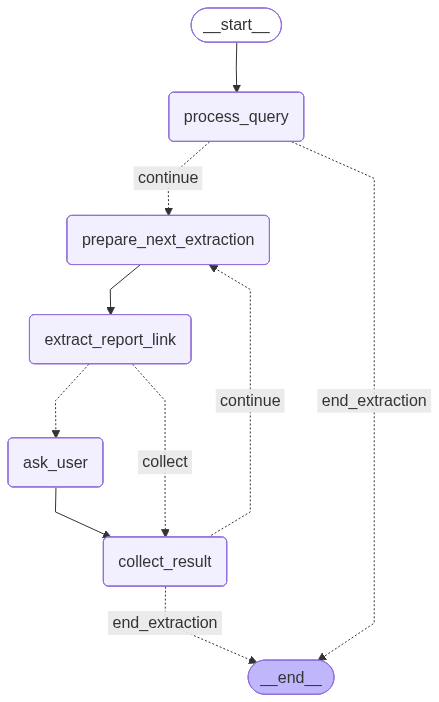
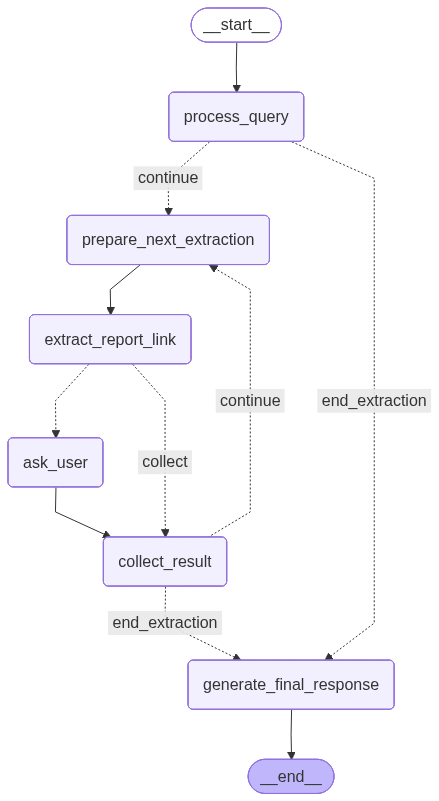
tests, xử lý edge cases yêu cầu người dùng, thêm response node

diff --git a/nodes/extract_link.py b/nodes/extract_link.py
@@ -1,4 +1,4 @@
-from playwright.sync_api import sync_playwright
+from playwright.sync_api import sync_playwright, TimeoutError as PlaywrightTimeoutError
 from state import StockReportState
 import regex as re
 
@@ -8,7 +8,7 @@ def prepare_next_extraction_node(state: StockReportState) -> StockReportState:
     pending = state["pending_requests"]
     if not pending:
         return {**state, "error_message": "Không có yêu cầu nào đang chờ."}
-    next_request = pending.pop(0) # Lấy và xóa yêu cầu đầu tiên
+    next_request = pending.pop(0) # Lấy yêu cầu đầu tiên
     print(f"Đang xử lý yêu cầu: {next_request.request_id} - {next_request.stock_code} {next_request.period} {next_request.quarter}/{next_request.year}")
 
     return {
@@ -19,7 +19,8 @@ def prepare_next_extraction_node(state: StockReportState) -> StockReportState:
         "year": next_request.year,
         "period": next_request.period,
         "quarter": next_request.quarter,
-        # Reset các trường kết quả của lần lặp trước
+        "consolidation_status": next_request.consolidation_status,
+        # Reset
         "report_link": None,
         "error_message": None,
         "clarification_prompt": None,
@@ -32,6 +33,8 @@ def extract_report_link_node(state: StockReportState) -> StockReportState:
     # Khởi tạo
     stock_code = state["stock_code"]
     year = state["year"]
+    period = state["period"]
+    user_consol_status = state.get("consolidation_status")
     output_state = { "report_link": None, "error_message": None, "clarification_prompt": None, "notification": None }
     try:
         with sync_playwright() as p:
@@ -40,16 +43,17 @@ def extract_report_link_node(state: StockReportState) -> StockReportState:
             page = browser.new_page()
             url = f"https://finance.vietstock.vn/{stock_code.upper()}/tai-tai-lieu.htm?doctype=1"
             page.goto(url, wait_until="domcontentloaded", timeout=30000)
-            # Chọn năm
-            year_selector = 'select.dropdown-year'
-            page.wait_for_selector(year_selector, timeout=30000) 
-            page.select_option(year_selector, str(year))
-            page.wait_for_function("""
-                        (year) => {
-                            const firstReport = document.querySelector("div.p-t-xs p.i-b-d a");
-                            return firstReport && firstReport.innerText.includes(year);
-                        }
-                    """, arg=str(year), timeout=60000)
+            if period != "Mới nhất" and year:
+                # Chọn năm
+                year_selector = 'select.dropdown-year'
+                page.wait_for_selector(year_selector, timeout=30000) 
+                page.select_option(year_selector, str(year))
+                page.wait_for_function("""
+                            (year) => {
+                                const firstReport = document.querySelector("div.p-t-xs p.i-b-d a");
+                                return firstReport && firstReport.innerText.includes(year);
+                            }
+                        """, arg=str(year), timeout=60000)
             reports_data = page.query_selector_all("div.p-t-xs p.i-b-d")
             # Lấy tên và link của tất cả pdf báo cáo trong năm
             scraped_reports = []
@@ -67,9 +71,35 @@ def extract_report_link_node(state: StockReportState) -> StockReportState:
             if not scraped_reports:
                 output_state["error_message"] = f"Không tìm thấy báo cáo nào cho mã {stock_code} năm {year}."
                 return {**state, **output_state}
+    except PlaywrightTimeoutError:
+        output_state["error_message"] = f"Không tìm thấy thông tin cho mã chứng khoán '{stock_code}'. Vui lòng kiểm tra lại mã."
+        return {**state, **output_state}
     except Exception as e:
         output_state["error_message"] = f"Lỗi khi scraping web: {str(e)}"
         return {**state, **output_state}
+    
+    if period == "Mới nhất":
+        if not scraped_reports:
+            output_state["error_message"] = f"Không tìm thấy báo cáo nào cho mã {stock_code}."
+            return {**state, **output_state}
+            
+        # Lọc theo Hợp nhất/Công ty mẹ nếu có yêu cầu
+        if user_consol_status:
+            for report in scraped_reports:
+                if user_consol_status.lower() in report["title"].lower():
+                    output_state["report_link"] = report["link"]
+                    output_state["notification"] = f"Đã tìm thấy báo cáo mới nhất theo yêu cầu: '{report['title']}'."
+                    return {**state, **output_state}
+
+            output_state["error_message"] = f"Không tìm thấy báo cáo '{user_consol_status}' mới nhất cho mã {stock_code}."
+            return {**state, **output_state}
+        else:
+            # Nếu không yêu cầu, lấy cái đầu tiên (mới nhất)
+            selected_report = scraped_reports[0]
+            output_state["report_link"] = selected_report["link"]
+            output_state["notification"] = f"Đã tìm thấy báo cáo mới nhất: '{selected_report['title']}'. (Mặc định lấy báo cáo đầu tiên trong danh sách)."
+            return {**state, **output_state}
+
     available_reports = {
         "Cả năm": {"Hợp nhất": [], "Công ty mẹ": []},
         "6 tháng": {"Hợp nhất": [], "Công ty mẹ": []},
@@ -93,18 +123,16 @@ def extract_report_link_node(state: StockReportState) -> StockReportState:
                     available_reports["Quý"][q][consol_status].append(report)
                     break
 
-    user_period = state.get("period")
-    user_consol_status = state.get("consolidation_status")
     user_quarter = state.get("quarter")
 
     # Trường hợp 1: Người dùng đã cung cấp đủ thông tin
-    if user_period and user_consol_status:
+    if period and user_consol_status:
         found_reports = []
-        if user_period == "Quý" and user_quarter:
+        if period == "Quý" and user_quarter:
             found_reports = available_reports["Quý"][user_quarter][user_consol_status]
-        elif user_period == "6 tháng":
+        elif period == "6 tháng":
             found_reports = available_reports["6 tháng"][user_consol_status]
-        elif user_period == "Cả năm":
+        elif period == "Cả năm":
             found_reports = available_reports["Cả năm"][user_consol_status]
 
         if found_reports:
@@ -113,7 +141,7 @@ def extract_report_link_node(state: StockReportState) -> StockReportState:
             output_state["notification"] = f"Đã tìm thấy báo cáo '{selected_report['title']}' theo yêu cầu."
             return {**state, **output_state}
         else:
-            req_str = f"{user_period} Quý {user_quarter}" if user_period == "Quý" else user_period
+            req_str = f"{period} Quý {user_quarter}" if period == "Quý" else period
             output_state["error_message"] = f"Không tìm thấy báo cáo '{req_str} - {user_consol_status}' bạn yêu cầu."
             return {**state, **output_state}
 
@@ -122,7 +150,7 @@ def extract_report_link_node(state: StockReportState) -> StockReportState:
     requested_quarter_failed = False 
 
     # Tìm chính xác quý người dùng yêu cầu (nếu họ yêu cầu quý)
-    if user_period == "Quý" and user_quarter:
+    if period == "Quý" and user_quarter:
         for cons_stat in ["Hợp nhất", "Công ty mẹ"]:
             if available_reports["Quý"][user_quarter][cons_stat]:
                 report_item = available_reports["Quý"][user_quarter][cons_stat][0]
@@ -146,11 +174,11 @@ def extract_report_link_node(state: StockReportState) -> StockReportState:
     if not possible_choices:
         if not requested_quarter_failed: 
             for cons_stat in ["Hợp nhất", "Công ty mẹ"]:
-                if user_period != "Cả năm" and available_reports["6 tháng"][cons_stat]:
+                if period != "Cả năm" and available_reports["6 tháng"][cons_stat]:
                     report_item = available_reports["6 tháng"][cons_stat][0]
                     possible_choices.append({"period": "6 tháng", "consolidation_status": cons_stat, **report_item})
 
-                if user_period != "6 tháng" and available_reports["Cả năm"][cons_stat]:
+                if period != "6 tháng" and available_reports["Cả năm"][cons_stat]:
                     report_item = available_reports["Cả năm"][cons_stat][0]
                     possible_choices.append({"period": "Cả năm", "consolidation_status": cons_stat, **report_item})
 

diff --git a/nodes/process_query.py b/nodes/process_query.py
@@ -3,6 +3,7 @@ from state import StockReportState
 from tools import get_current_time
 from langchain_google_genai import ChatGoogleGenerativeAI
 from langchain_core.prompts import ChatPromptTemplate, FewShotChatMessagePromptTemplate
+from datetime import datetime
 
 def process_query_node(state: StockReportState) -> StockReportState:
     print("Bắt đầu Node: Xử lý Query")
@@ -49,6 +50,20 @@ def process_query_node(state: StockReportState) -> StockReportState:
                 ],
                 comparison_context="Phân tích sự tăng trưởng của HPG qua Quý 1, 2, và 3 của năm 2025."
             )
+        },
+        {
+            "input": "lấy cho tôi báo cáo tài chính hợp nhất quý 2 2024 của FPT",
+            "output": AnalysisIntent(
+                requests=[ReportRequest(stock_code="FPT", year=2024, period="Quý", quarter=2, consolidation_status="Hợp nhất")],
+                comparison_context="Phân tích báo cáo tài chính hợp nhất Quý 2 2024 của FPT."
+            )
+        },
+        {
+            "input": "tìm báo cáo mới nhất của VNM",
+            "output": AnalysisIntent(
+                requests=[ReportRequest(stock_code="VNM", period="Mới nhất")],
+                comparison_context="Tìm báo cáo tài chính mới nhất của VNM."
+            )
         }
     ]
 
@@ -73,15 +88,57 @@ def process_query_node(state: StockReportState) -> StockReportState:
 
     try:
         analysis_intent = chain.invoke({"query": query})
+        # Loại bỏ các báo cáo tương lai
+        now = datetime.now()
+        valid_requests = []
+        future_requests_messages = []
+
+        if not analysis_intent.requests:
+            return {
+                **state,
+                "pending_requests": [],
+                "comparison_context": analysis_intent.comparison_context,
+                "notification": "Tôi nhận thấy yêu cầu của bạn dành cho một báo cáo trong tương lai và chưa được phát hành. Do đó, không có tác vụ tìm kiếm nào được thực hiện.",
+                "collected_links": {}
+            }
+
+        for req in analysis_intent.requests:
+            if req.year is not None:
+                end_month = 12
+                if req.period == "Quý" and req.quarter:
+                    end_month = req.quarter * 3
+                elif req.period == "6 tháng":
+                    end_month = 6
+                
+                report_is_in_future = False
+                if req.year > now.year:
+                    report_is_in_future = True
+                elif req.year == now.year and end_month >= now.month:
+                     report_is_in_future = True
+
+                if report_is_in_future:
+                    req_str = f"{req.stock_code} {req.period} {req.quarter}/{req.year}" if req.period == "Quý" else f"{req.stock_code} {req.period}/{req.year}"
+                    future_requests_messages.append(f"- {req_str}")
+                    continue
+            
+            valid_requests.append(req)
+        
+        notification = None
+        if future_requests_messages:
+            notification = "Một số báo cáo bạn yêu cầu chưa đến kỳ phát hành và đã được bỏ qua:\n" + "\n".join(future_requests_messages)
+
         return {
             **state,
-            "pending_requests": analysis_intent.requests,
+            "pending_requests": valid_requests,
             "comparison_context": analysis_intent.comparison_context,
+            "notification": notification,
             "collected_links": {}
         }
     except Exception as e:
         print(f"Lỗi khi xử lý query: {e}")
         return {
             **state,
-            "error_message": "Lỗi xử lý query."
+            "pending_requests": [],
+            "collected_links": {},
+            "error_message": f"Lỗi nghiêm trọng khi xử lý query: {e}"
         }

diff --git a/agent.py b/agent.py
@@ -11,6 +11,7 @@ from nodes import (
     should_continue_extraction,
     collect_result_node,
     ask_user_for_clarification_node,
+    generate_final_response_node
 )
 
 load_dotenv()
@@ -24,6 +25,7 @@ graph_builder.add_node("prepare_next_extraction", prepare_next_extraction_node)
 graph_builder.add_node("extract_report_link", extract_report_link_node)
 graph_builder.add_node("ask_user", ask_user_for_clarification_node)
 graph_builder.add_node("collect_result", collect_result_node)
+graph_builder.add_node("generate_final_response", generate_final_response_node)
 
 # Edges
 
@@ -31,13 +33,14 @@ graph_builder.add_edge(START, "process_query")
 graph_builder.add_conditional_edges(
     "process_query",
     should_continue_extraction,
-    {"continue": "prepare_next_extraction", "end_extraction": END}
+    {"continue": "prepare_next_extraction", "end_extraction": "generate_final_response"}
 )
 graph_builder.add_conditional_edges(
     "collect_result",
     should_continue_extraction,
-    {"continue": "prepare_next_extraction", "end_extraction": END}
+    {"continue": "prepare_next_extraction", "end_extraction": "generate_final_response"}
 )
+graph_builder.add_edge("generate_final_response", END)
 graph_builder.add_edge("prepare_next_extraction", "extract_report_link")
 graph_builder.add_edge("ask_user", "collect_result")
 graph_builder.add_conditional_edges(
@@ -48,7 +51,7 @@ graph_builder.add_conditional_edges(
 
 agent = graph_builder.compile()
 
-query = "so sánh fpt quý 2 và quý 3 năm 2024"
+query = "tìm báo cáo tài chính quý 2 2024 của FPT"
 final_state = agent.invoke({"query": query})
 
 print("AGENT ĐÃ HOÀN TẤT")

diff --git a/nodes/generate_response.py b/nodes/generate_response.py
@@ -1,0 +1,35 @@
+from state import StockReportState
+
+def generate_final_response_node(state: StockReportState) -> StockReportState:
+    """Tạo câu trả lời cuối cùng dựa trên kết quả thu thập được."""
+    print("Bắt đầu Node: Tạo Phản hồi Cuối cùng")
+    
+    collected = state.get("collected_links", {})
+    context = state.get("comparison_context", "")
+    notification = state.get("notification")
+    
+    if not collected and notification:
+        final_response = (
+            f"Mục tiêu: {context}\n\n"
+            f"Trạng thái:\n{notification}"
+        )
+        return {**state, "final_response": final_response}
+        
+    if not collected and not notification:
+        return {**state, "final_response": "Rất tiếc, tôi không thể xử lý yêu cầu của bạn. Vui lòng thử lại với một truy vấn khác."}
+
+    response_parts = []
+    response_parts.append(f"Mục tiêu phân tích: {context}")
+
+    if notification:
+        response_parts.append(f"\nThông báo:\n{notification}")
+
+    if collected:
+        response_parts.append("\nKết quả tìm kiếm:")
+        for req_id, result in collected.items():
+            if "LỖI" in result:
+                response_parts.append(f"Yêu cầu {req_id}: Thất bại. {result}")
+            else:
+                response_parts.append(f"Yêu cầu {req_id}: Thành công. Link: {result}")
+    
+    return {**state, "final_response": "\n".join(response_parts)}

diff --git a/pydantic_models.py b/pydantic_models.py
@@ -6,9 +6,10 @@ class ReportRequest(BaseModel):
     """Yêu cầu tìm một báo cáo tài chính cụ thể."""
     request_id: str = Field(description="Mã định danh duy nhất cho yêu cầu này, ví dụ 'req_1', 'req_2'.",default_factory=lambda: f"req_{uuid.uuid4().hex[:4]}")
     stock_code: str = Field(description="Mã chứng khoán, ví dụ: 'FPT', 'VCB'.")
-    year: int = Field(description="Năm của báo cáo.")
-    period: Literal["Quý", "6 tháng", "Cả năm"] = Field(description="Kỳ báo cáo.")
-    quarter: Optional[int] = Field(description="Quý của báo cáo (chỉ khi period là 'Quý').")
+    year: Optional[int] = Field(default=None, description="Năm của báo cáo.")
+    period: Optional[Literal["Quý", "6 tháng", "Cả năm", "Mới nhất"]] = Field(default=None, description="Kỳ báo cáo.")
+    quarter: Optional[int] = Field(default=None, description="Quý của báo cáo (chỉ khi period là 'Quý').")
+    consolidation_status: Optional[Literal["Hợp nhất", "Công ty mẹ"]] = Field(default=None, description="Loại báo cáo: Hợp nhất hay của Công ty mẹ.")
 
 class AnalysisIntent(BaseModel):
     """Ý định phân tích tổng thể của người dùng, bao gồm tất cả các báo cáo cần thiết."""

diff --git a/state.py b/state.py
@@ -10,7 +10,7 @@ class StockReportState(TypedDict):
     current_request_id: Optional[str]
     stock_code: Optional[str]
     year: Optional[int]
-    period: Optional[Literal["Quý", "6 tháng", "Cả năm"]]
+    period: Optional[Literal["Quý", "6 tháng", "Cả năm", "Mới nhất"]]
     quarter: Optional[int]
     consolidation_status: Optional[Literal["Hợp nhất", "Công ty mẹ"]]
     report_link: Optional[str]

diff --git a/nodes/ask_user.py b/nodes/ask_user.py
@@ -7,7 +7,6 @@ def ask_user_for_clarification_node(state: StockReportState) -> StockReportState
     choices = state.get("possible_choices")
     if not prompt or not choices:
         return {**state, "error_message": "Lỗi logic: Thiếu prompt hoặc lựa chọn để hỏi người dùng."}
-    print("YÊU CẦU NHẬP LIỆU")
     print(prompt)
 
     while True:

diff --git a/nodes/__init__.py b/nodes/__init__.py
@@ -3,3 +3,4 @@ from .extract_link import extract_report_link_node, prepare_next_extraction_node
 from .collect_results import collect_result_node
 from .ask_user import ask_user_for_clarification_node
 from .routing import should_continue_extraction, check_extraction_result
+from .generate_response import generate_final_response_node
